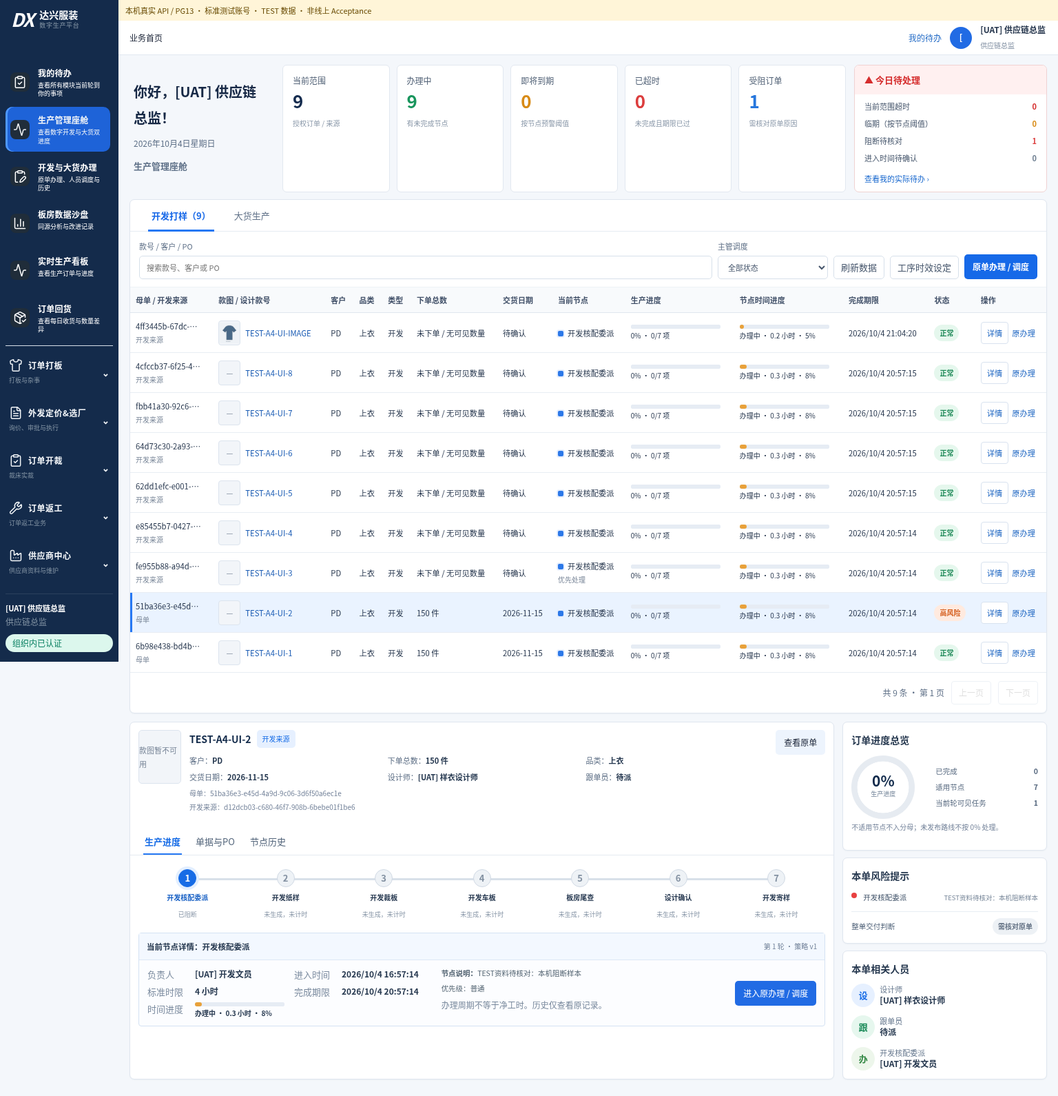
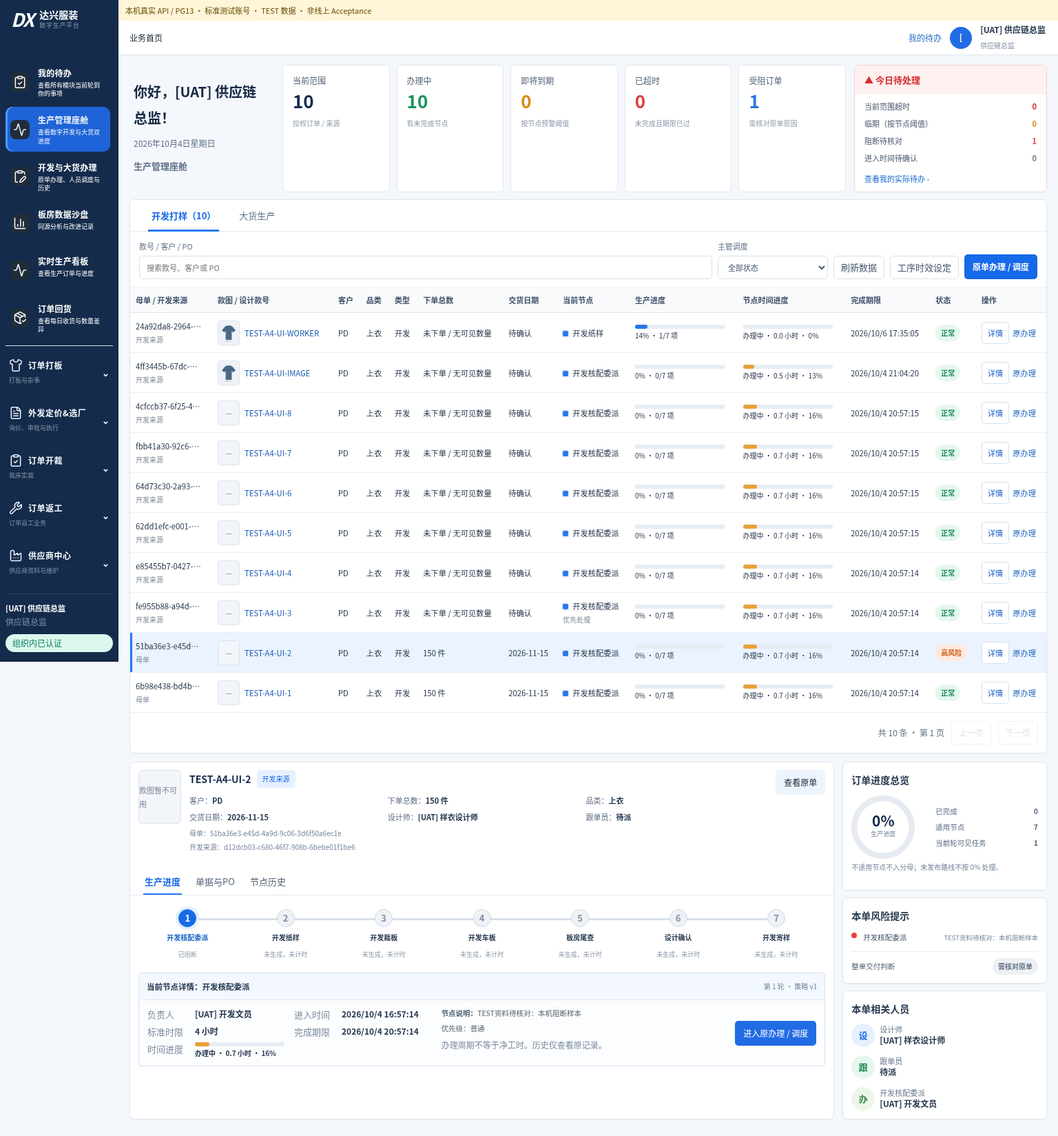
fix: preserve assigned task visibility and effective material rechecks

diff --git a/apps/api/src/production-platform/cockpit-query.ts b/apps/api/src/production-platform/cockpit-query.ts
@@ -22,8 +22,10 @@ export class DigitalCockpitQuery {
     const clerk = `('development_clerk'=ANY($5::text[]) AND ${activeRole("'development_clerk'")})`;
     let bulkTasks='false';
     if(input.stage==='bulk'&&(await db.query("SELECT to_regclass('digital_bulk_preparations') AS relation")).rows[0]?.relation) bulkTasks=`EXISTS(SELECT 1 FROM digital_production_task_access ba JOIN digital_production_tasks bt USING(task_id) JOIN digital_bulk_preparations bp ON bp.preparation_id=bt.route_instance_id AND bp.production_order_id=ba.production_order_id JOIN digital_instruction_documents bi ON bi.production_order_id=bp.production_order_id AND bi.published_version=bp.instruction_version WHERE ba.production_order_id=o.production_order_id AND bt.state<>'cancelled' AND bp.source_round=coalesce((SELECT max(round_number) FROM digital_development_rounds WHERE source_id=bp.source_id),1) AND ba.task_kind IN ('bulk_pattern','warehouse_preshrink','bulk_cutting','bulk_cutting_external','process_logistics','bulk_qc','warehouse_dispatch','factory_material_count','bulk_ship_sample') AND ((ba.assignee_id=$4 AND ${activeRole('ba.required_role')}) OR ${delegated('task_id','ba.task_id',"'technical'")} OR (${delegated('task_id','ba.task_id',"'execute'")} AND ${activeRole('ba.required_role')})))`;
+    // Task assignment/delegation gives resource visibility, not blanket access to its other tasks.
+    const developmentTasks=`EXISTS(SELECT 1 FROM digital_production_task_access da JOIN digital_production_tasks dt USING(task_id) WHERE da.source_id=s.source_id AND da.task_kind LIKE 'development_%' AND ((da.assignee_id=$4 AND ${activeRole('da.required_role')}) OR ${delegated('task_id','da.task_id',"'technical','execute'")}))`;
     const scope=input.stage==='development'
-      ? `($6 OR $7 OR ('sample_designer'=ANY($5::text[]) AND s.created_by=$4) OR ('order_merchandiser'=ANY($5::text[]) AND ${activeRole("'order_merchandiser'")} AND EXISTS(SELECT 1 FROM digital_production_orders mo WHERE mo.source_id=s.source_id AND mo.primary_merchandiser_id=$4)) OR ${delegated('source_id','s.source_id',"'technical'")} OR (${clerk} AND EXISTS(SELECT 1 FROM digital_production_task_access ca WHERE ca.source_id=s.source_id AND ca.task_kind LIKE 'development_%')))`
+      ? `($6 OR $7 OR ('sample_designer'=ANY($5::text[]) AND s.created_by=$4) OR ('order_merchandiser'=ANY($5::text[]) AND ${activeRole("'order_merchandiser'")} AND EXISTS(SELECT 1 FROM digital_production_orders mo WHERE mo.source_id=s.source_id AND mo.primary_merchandiser_id=$4)) OR ${delegated('source_id','s.source_id',"'technical'")} OR ${developmentTasks} OR (${clerk} AND EXISTS(SELECT 1 FROM digital_production_task_access ca WHERE ca.source_id=s.source_id AND ca.task_kind LIKE 'development_%')))`
       : `($6 OR $7 OR ('sample_designer'=ANY($5::text[]) AND o.created_by=$4) OR ('order_merchandiser'=ANY($5::text[]) AND o.primary_merchandiser_id=$4) OR (${clerk} AND o.source_id IS NOT NULL) OR ${bulkTasks} OR ${delegated('production_order_id','o.production_order_id',"'technical'")})`;
     const column = input.stage === "development" ? "source_id" : "production_order_id";
     const visibleColumn=input.stage==='development'?'sourceId':'orderId';
@@ -68,7 +70,7 @@ SELECT o.production_order_id AS "orderId",s.source_id AS "sourceId",
     const labels = hasDocuments ? (await db.query("SELECT DISTINCT ON(node_key) node_key,label FROM digital_production_deadline_policies ORDER BY node_key,version DESC")).rows : [];
     for (const row of result.items) {
       const resourceId = input.stage === "development" ? row.sourceId : row.orderId;
-      const taskIds = (await db.query(`SELECT t.task_id FROM digital_production_tasks t JOIN digital_production_task_access a USING(task_id)
+      const taskIds = (await db.query(`SELECT t.task_id,EXISTS(SELECT 1 FROM digital_production_task_events e WHERE e.task_id=t.task_id AND e.event_kind='material_returned') AS returned FROM digital_production_tasks t JOIN digital_production_task_access a USING(task_id)
         WHERE a.${column}=$1 ORDER BY t.route_version DESC,t.created_at,t.task_id`,[resourceId])).rows;
       const tasks: Awaited<ReturnType<DigitalProductionTaskService["read"]>>[] = [];
       for (const task of taskIds) if (await policy.allowed(actor,"task",task.task_id,"technical")) tasks.push(await service.read(actor,task.task_id));
@@ -97,15 +99,17 @@ SELECT o.production_order_id AS "orderId",s.source_id AS "sourceId",
       }
       const lines = row.orderId && await policy.allowed(actor,"order",row.orderId,"technical") ? (await db.query(`SELECT l.line_id AS id,l.po_number AS po,l.color,coalesce(sum(s.quantity),0)::int AS quantity
         FROM digital_production_po_lines l LEFT JOIN digital_production_po_sizes s USING(line_id) WHERE l.production_order_id=$1 GROUP BY l.line_id ORDER BY l.position`,[row.orderId])).rows : [];
-      let flow:CockpitRow["flow"]=tasks.filter(task=>task.routeVersion===(latest?.routeVersion??1)).map(task=>({key:task.taskKind,label:task.label,state:task.state,taskId:task.taskId}));
+      const effectiveTasks=tasks.filter(task=>!taskIds.find(item=>item.task_id===task.taskId)?.returned);
+      let flow:CockpitRow["flow"]=effectiveTasks.filter(task=>task.routeVersion===(latest?.routeVersion??1)).map(task=>({key:task.taskKind,label:task.label,state:task.state,taskId:task.taskId}));
       let styleImageId:string|null=null;
-      if(hasDocuments&&row.sourceId&&await policy.allowed(actor,"source",row.sourceId,"technical")) {
+      const fullSourceAccess=Boolean(row.sourceId&&await policy.allowed(actor,"source",row.sourceId,"technical"));
+      if(hasDocuments&&row.sourceId&&(fullSourceAccess||tasks.some(task=>task.sourceId===row.sourceId))) {
         const sheet=sheets.find(item=>item.source_id===row.sourceId);
         const document=sheet?.document;
         if(input.stage==='development'&&sheet?.status==='published') {
           const declared:string[]=(latest?.routeVersion??1)===1?['development_materials',...developmentRoute(document)]:rounds.find(round=>round.source_id===row.sourceId&&round.round_number===latest!.routeVersion)?.route_nodes??[];
           const nodes=declared.filter(node=>!['development_material_supply','development_craft_dispatch','development_sewing_transfer','development_washing_dispatch'].includes(node));
-          flow=nodes.map(key=>{const match=tasks.find(task=>task.routeVersion===(latest?.routeVersion??1)&&(task.taskKind===key||(key==='development_materials'&&task.taskKind==='development_material_recheck')));return {key,label:labels.find(item=>item.node_key===key)?.label??key,state:match?.state??'uncreated',taskId:match?.taskId??null};});
+          flow=nodes.map(key=>{const match=effectiveTasks.filter(task=>task.routeVersion===(latest?.routeVersion??1)&&(task.taskKind===key||(key==='development_materials'&&task.taskKind==='development_material_recheck'))).sort((a,b)=>b.occurrence-a.occurrence)[0];return {key,label:labels.find(item=>item.node_key===key)?.label??key,state:match?.state??(fullSourceAccess?'uncreated':'unavailable'),taskId:match?.taskId??null};});
         }
         if(document?.template)row.category=document.template;
         const image=document?.files?.find((file:{kind:string})=>file.kind==='款图');

diff --git a/apps/web/src/production-command-center-view.tsx b/apps/web/src/production-command-center-view.tsx
@@ -344,7 +344,7 @@ export function ProductionCommandCenterLiveView(props:LiveProps){
    <article className="production-command-card production-command-detail">
     <div className="production-command-detail-heading"><LiveStyleImage key={selected.styleImageId??selected.id} row={selected}/><div className="production-command-detail-title"><div className="production-command-title-row"><h2>{selected.styleNo}</h2><span className="production-command-type-tag">{stage==='development'?'开发来源':'大货订单'}</span></div><div className="production-command-detail-facts-grid"><span>客户：<strong>{selected.customer}</strong></span><span>下单总数：<strong>{selected.lines.length?`${selected.lines.reduce((n,line)=>n+line.quantity,0)} 件`:'无可见数量'}</strong></span><span>品类：<strong>{selected.category}</strong></span><span>交货日期：<strong>{selected.deliveryDate??'待确认'}</strong></span><span>设计师：<strong>{selected.designer}</strong></span><span>跟单员：<strong>{selected.merchandiser??'待派'}</strong></span></div><p className="digital-identity-facts">母单：{selected.orderId??'尚未下单'}<br/>开发来源：{selected.sourceId??'尚未提交'}</p></div><div className="production-command-detail-actions"><a href={originalOrder(selected)}>查看原单</a></div></div>
     <nav className="production-command-detail-tabs" aria-label="订单详情导航">{['生产进度','单据与PO','节点历史'].map(label=><button key={label} className={tab===label?'is-active':undefined} aria-pressed={tab===label} onClick={()=>setTab(label)}>{label}</button>)}</nav>
-    {tab==='生产进度'&&<><div className="production-command-timeline" aria-label="当前轮次生产流程">{(selected.flow?.length?selected.flow:nodes.map(node=>({key:node.taskId,label:node.label,state:node.state,taskId:node.taskId}))).map((node,index)=><button key={node.key} disabled={!node.taskId} onClick={()=>node.taskId&&setTaskId(node.taskId)} className={`production-command-timeline-item is-${node.state==='completed'?'done':['ready','blocked'].includes(node.state)?'current':'future'}${task?.taskId===node.taskId?' is-selected':''}`} aria-pressed={task?.taskId===node.taskId}><span className="production-command-step">{node.state==='completed'?'✓':index+1}</span><strong>{node.label}</strong><small>{{uncreated:'未生成，未计时',pending:'前置待齐',ready:'可办理',blocked:'已阻断',completed:'已完成',cancelled:'已取消'}[node.state]}</small></button>)}{!nodes.length&&!selected.flow?.length&&<p>路线尚未发布，暂无可展示节点。</p>}</div>{task&&<div className="production-command-current-node"><div className="production-command-current-node-title"><strong>当前节点详情：{task.label}</strong><span>第 {task.routeVersion} 轮 · 策略 v{task.policyVersion}</span></div><div className="production-command-current-node-body"><dl><div><dt>负责人</dt><dd>{task.assigneeName??'待派'}</dd></div><div><dt>进入时间</dt><dd>{liveDate(task.enteredAt)}</dd></div><div><dt>标准时限</dt><dd>{task.slaHours===null?'无 SLA':`${task.slaHours} 小时`}</dd></div><div><dt>完成期限</dt><dd>{task.slaHours===null?'无 SLA':liveDate(task.dueAt)}</dd></div><div><dt>时间进度</dt><dd><LiveTimeProgress task={task} now={now}/></dd></div></dl><div className="production-command-current-node-copy"><p><strong>节点说明：</strong>{task.blockedReason??(task.state==='pending'?'前置条件未齐，不提前计时。':task.state==='completed'?'已完成，期限与历史记录冻结。':'在原办理页核对前置、资料和业务事实。')}</p><p>优先级：{task.priority==='urgent'?'优先处理':'普通'}</p><small>办理周期不等于净工时。历史仅查看原记录。</small></div><div className="production-command-current-node-actions"><a className="is-primary" href={originalTask(task)}>{['completed','cancelled'].includes(task.state)?'查看历史记录':'进入原办理 / 调度'}</a></div></div></div>}</>}
+    {tab==='生产进度'&&<><div className="production-command-timeline" aria-label="当前轮次生产流程">{(selected.flow?.length?selected.flow:nodes.map(node=>({key:node.taskId,label:node.label,state:node.state,taskId:node.taskId}))).map((node,index)=><button key={node.key} disabled={!node.taskId} onClick={()=>node.taskId&&setTaskId(node.taskId)} className={`production-command-timeline-item is-${node.state==='completed'?'done':['ready','blocked'].includes(node.state)?'current':'future'}${task?.taskId===node.taskId?' is-selected':''}`} aria-pressed={task?.taskId===node.taskId}><span className="production-command-step">{node.state==='completed'?'✓':index+1}</span><strong>{node.label}</strong><small>{{uncreated:'未生成，未计时',unavailable:'未生成或无查看权限',pending:'前置待齐',ready:'可办理',blocked:'已阻断',completed:'已完成',cancelled:'已取消'}[node.state]}</small></button>)}{!nodes.length&&!selected.flow?.length&&<p>路线尚未发布，暂无可展示节点。</p>}</div>{task&&<div className="production-command-current-node"><div className="production-command-current-node-title"><strong>当前节点详情：{task.label}</strong><span>第 {task.routeVersion} 轮 · 策略 v{task.policyVersion}</span></div><div className="production-command-current-node-body"><dl><div><dt>负责人</dt><dd>{task.assigneeName??'待派'}</dd></div><div><dt>进入时间</dt><dd>{liveDate(task.enteredAt)}</dd></div><div><dt>标准时限</dt><dd>{task.slaHours===null?'无 SLA':`${task.slaHours} 小时`}</dd></div><div><dt>完成期限</dt><dd>{task.slaHours===null?'无 SLA':liveDate(task.dueAt)}</dd></div><div><dt>时间进度</dt><dd><LiveTimeProgress task={task} now={now}/></dd></div></dl><div className="production-command-current-node-copy"><p><strong>节点说明：</strong>{task.blockedReason??(task.state==='pending'?'前置条件未齐，不提前计时。':task.state==='completed'?'已完成，期限与历史记录冻结。':'在原办理页核对前置、资料和业务事实。')}</p><p>优先级：{task.priority==='urgent'?'优先处理':'普通'}</p><small>办理周期不等于净工时。历史仅查看原记录。</small></div><div className="production-command-current-node-actions"><a className="is-primary" href={originalTask(task)}>{['completed','cancelled'].includes(task.state)?'查看历史记录':'进入原办理 / 调度'}</a></div></div></div>}</>}
     {tab==='单据与PO'&&<div className="digital-detail-section"><h3>原始 PO 与款色</h3>{selected.lines.length?selected.lines.map(line=><p key={line.id}>{line.po??'PO 待补'} · {line.color} · {line.quantity} 件</p>):<p>尚无下单 PO 或当前账号无可见 PO。</p>}<a href={originalOrder(selected)}>原单资料、附件与版本</a></div>}
     {tab==='节点历史'&&<div className="digital-detail-section">{selected.tasks.length?selected.tasks.map(node=><p key={node.taskId}><a href={originalTask(node)}>{node.label} · 第 {node.routeVersion} 轮</a> · {node.assigneeName??'待派'} · {taskTimeProgress(node,now).label}</p>):<p>暂无节点历史</p>}<small>历史只读，具体权限仍由原业务页核验。</small></div>}
    </article>

diff --git a/tests/integration/digital-production-tasks-postgres.test.ts b/tests/integration/digital-production-tasks-postgres.test.ts
@@ -100,6 +100,26 @@ run("P03 task lifecycle PostgreSQL", () => {
     await access.revoke(boss,grant.delegationId);
     expect((await cockpit.list(actor(other),query)).total).toBe(0);
   });
+  it("P15 shows only assigned or delegated development sources and keeps other tasks private",async()=>{
+    const search='TEST-P15-ASSIGNED',workerId=randomUUID(),hiddenWorkerId=randomUUID();
+    for(const id of [workerId,hiddenWorkerId])await database.query("INSERT INTO app_users(id,display_name,enabled) VALUES($1,'TEST assigned worker',true)",[id]);
+    const first=await service.createSource(actor(),DigitalSourceCreateSchema.parse({developmentType:'头版',designStyleNo:search+'-A',customerCode:'PD'}),randomUUID());
+    const second=await service.createSource(actor(),DigitalSourceCreateSchema.parse({developmentType:'头版',designStyleNo:search+'-B',customerCode:'PD'}),randomUUID());
+    await database.query("INSERT INTO user_role_assignments(user_id,role_code) VALUES($1,'pattern_room_worker'),($2,'pattern_room_worker')",[workerId,hiddenWorkerId]);
+    const assigned=await create({kind:'source',id:first.sourceId},'development_pattern',{assigneeId:workerId});
+    const hidden=await create({kind:'source',id:first.sourceId},'development_cutting',{assigneeId:hiddenWorkerId});
+    const unrelated=await create({kind:'source',id:second.sourceId},'development_pattern',{assigneeId:hiddenWorkerId});
+    const worker=actor(workerId,['pattern_room_worker']),cockpit=new DigitalCockpitQuery(database),input={page:1,search,stage:'development' as const};
+    const visible=await cockpit.list(worker,input);expect(visible.total).toBe(1);expect(visible.items[0]!.sourceId).toBe(first.sourceId);
+    expect(visible.items[0]!.tasks.map(task=>task.taskId)).toEqual([assigned.taskId]);expect(visible.items[0]!.tasks.some(task=>task.taskId===hidden.taskId)).toBe(false);
+    expect(visible.summary.active).toBe(1);
+    await database.query("UPDATE user_role_assignments SET revoked_at=CURRENT_TIMESTAMP WHERE user_id=$1 AND role_code='pattern_room_worker'",[workerId]);
+    expect((await cockpit.list(worker,input)).total).toBe(0);
+    await database.query("INSERT INTO user_role_assignments(user_id,role_code) VALUES($1,'sample_designer')",[workerId]);
+    const access=new DigitalProductionAccessService(database),grant=await access.delegate(boss,{resourceKind:'task',resourceId:unrelated.taskId,delegateId:workerId,purpose:'technical',expiresAt:new Date(Date.now()+3600000).toISOString()});
+    expect((await cockpit.list(worker,input)).items.map(row=>row.sourceId)).toEqual([second.sourceId]);
+    await access.revoke(boss,grant.delegationId);expect((await cockpit.list(worker,input)).total).toBe(0);
+  });
   it("keeps no-SLA tasks usable without creating a legacy clock and denies cross-order access", async()=>{
     const resource=await order();const {taskId}=await create(resource);
     expect(await tasks.read(actor(),taskId)).toMatchObject({state:"ready",dueAt:null,slaHours:null,canExecute:true});

diff --git a/tests/integration/digital-development-execution-postgres.test.ts b/tests/integration/digital-development-execution-postgres.test.ts
@@ -1,3 +1,4 @@
+import { DigitalCockpitQuery } from "../../apps/api/src/production-platform/cockpit-query.js";
 import { randomUUID } from "node:crypto";
 import { readFile } from "node:fs/promises";
 import pg from "pg";
@@ -94,11 +95,19 @@ run("P06 development execution PostgreSQL", () => {
     await execution.check(clerk(),id,{taskId,result:"缺项退回",note:"主布实物未到",items:checks(materialId,false)},randomUUID());
     const supply=(await execution.read(actor(),id)).tasks.find(t=>t.taskKind==="development_material_supply")!;
     expect(supply.routeProgress.completed).toBe(0);
+    const cockpit=new DigitalCockpitQuery(database),input={page:1,search:'',stage:'development' as const};
+    const returned=(await cockpit.list(boss(),input)).items.find(row=>row.sourceId===id)!;
+    expect(returned.flow?.find(node=>node.key==='development_materials')).toMatchObject({state:'uncreated',taskId:null});
+
     await expect(execution.resubmit(actor(),id,supply.taskId,randomUUID())).rejects.toMatchObject({statusCode:409});
     await development.materialEvent(actor(),id,materialId,{expectedMaterialRevision:0,expectedVersion:version,action:"到货",expectedDate:null,note:"主料实物已到"},randomUUID());
     await execution.resubmit(actor(),id,supply.taskId,randomUUID());
     const recheck=(await execution.read(clerk(),id)).tasks.find(t=>t.taskKind==="development_material_recheck")!;
     expect(recheck).toMatchObject({state:"ready",slaHours:null,dueAt:null});
+    const row=(await cockpit.list(boss(),input)).items.find(item=>item.sourceId===id)!;
+    expect(row.flow?.find(node=>node.key==='development_materials')).toMatchObject({state:'ready',taskId:recheck.taskId});
+    expect(row.tasks.find(task=>task.taskId===taskId)?.state).toBe('completed');
+
     expect((await tasks.read(clerk(),taskId)).slaHours).toBe(4);
     await execution.check(clerk(),id,{taskId:recheck.taskId,result:"通过",note:"缺项已补",items:checks(materialId)},randomUUID());
   });

diff --git a/packages/contracts/src/digital-production-cockpit.ts b/packages/contracts/src/digital-production-cockpit.ts
@@ -3,7 +3,7 @@ export type CockpitStage = "development" | "bulk";
 export type CockpitRow = {
   id: string; orderId: string | null; sourceId: string | null; styleNo: string;
   customer: string; category: string; designer: string; merchandiser: string | null;
-  flow?: {key:string;label:string;state:DigitalTask["state"]|"uncreated";taskId:string|null}[];
+  flow?: {key:string;label:string;state:DigitalTask["state"]|"uncreated"|"unavailable";taskId:string|null}[];
   styleImageId?: string | null;
   deliveryDate: string | null; createdAt: string;
   tasks: DigitalTask[];

diff --git a/docs/roadmap/digital-production-v1/a4-ui-repair-20261004.md b/docs/roadmap/digital-production-v1/a4-ui-repair-20261004.md
@@ -21,7 +21,7 @@
 
 隔离本机 PostgreSQL **13.23**，专用库 `dx_a4_ui_acceptance`，237 条迁移；标准 `seed-role-users` 账号，通过 Acceptance provider 签发本机测试码并走正常 `/api/auth/mobile`、Cookie 和后端 API。无 `page.route` 拦截身份或业务响应，无线上写入。本机 `/opt` 只读，测试启动仅以临时入口将 Acceptance storage 目录替换为 `/tmp/dx-a4-ui-attachments`；临时入口未提交，上传、授权和业务实现均为原代码。
 
-`TEST-A4-UI-1…8` 由原身份/开发/任务服务建立，包含两张双 PO 母单、阻断和优先任务。这八个样本附件只有测试元数据、无对象，页面明确回退“款图暂不可用”。另一个 `TEST-A4-UI-IMAGE` 通过真实上传 intent → multipart → finalize → 保存/发布建立；GET 图片 3121 bytes 与上传 SHA256 逐字节一致，授权账号可读，普通工人拒绝。
+`TEST-A4-UI-1…8` 由原身份/开发/任务服务建立，包含两张双 PO 母单、阻断和优先任务。这八个样本附件只有测试元数据、无对象，页面明确回退“款图暂不可用”。另一个 `TEST-A4-UI-IMAGE` 通过真实上传 intent → multipart → finalize → 保存/发布建立；GET 图片 3121 bytes 与上传 SHA256 逐字节一致，授权账号可读，普通工人拒绝。Review 后新增 `TEST-A4-UI-WORKER`，以正常 API 创建真实款图与完整主布、发布、预派并核配通过，激活已派工人的纸样任务；未派来源仍拒绝。TEST-A4-UI-8 的空主布核配尝试被原规则拒绝，未绕过。
 
 脚本：`scripts/acceptance/digital-workspace-real-browser.mjs`。仅允许 loopback 与上述专用库；需 `A4_UI_ENV_FILE` 指向不提交的本机秘密配置。前置数据为上述 TEST 样本和标准账号。命令：
 
@@ -29,11 +29,12 @@
 A4_UI_ENV_FILE=/path/to/local-test-env.json CHROMIUM_PATH=/usr/bin/chromium npx tsx scripts/acceptance/digital-workspace-real-browser.mjs
 ```
 
-8 场景：Root、供应链总监、技术主管、普通工人 × 1536×960 / 390×844。允许场景均从 `/ui/home` 点击进入，覆盖选单、双 PO、只读历史、SLA 按角色显隐、分析页、原办理页、返回座舱及实际待办；拒绝场景无导航入口，直接页面/API/款图均拒绝。另断言手机两列卡片、7 节点纵排、日期宽度、无页面级横向溢出和无页面 JS 错误。
+10 场景：Root、供应链总监、技术主管、已派板房工人、普通工人 × 1536×960 / 390×844。允许场景均从 `/ui/home` 点击进入，覆盖选单、双 PO、只读历史、SLA 按角色显隐、分析页、原办理页、返回座舱及实际待办；拒绝场景无导航入口，直接页面/API/款图均拒绝。另断言手机两列卡片、7 节点纵排、日期宽度、无页面级横向溢出和无页面 JS 错误。
 
-- [完整 8 场景结果](evidence/a4-ui-repair/result.json)
+- [完整 10 场景结果](evidence/a4-ui-repair/result.json)
 - [Root PC](evidence/a4-ui-repair/root-1536-cockpit.png) / [Root 手机](evidence/a4-ui-repair/root-390-cockpit.png)
 - [供应链总监 PC](evidence/a4-ui-repair/production-management-1536-cockpit.png) / [手机](evidence/a4-ui-repair/production-management-390-cockpit.png)
+- [已派板房工人 PC](evidence/a4-ui-repair/pattern-room-worker-1536-cockpit.png) / [手机](evidence/a4-ui-repair/pattern-room-worker-390-cockpit.png)
 - [技术主管 PC](evidence/a4-ui-repair/pattern-room-supervisor-1536-cockpit.png) / [普通工人拒绝](evidence/a4-ui-repair/worker-a-390-denied.png)
 - [同 Shell 分析页](evidence/a4-ui-repair/root-1536-analysis.png)
 - [仓库演示模板 PC](evidence/a4-ui-repair/reference-template-desktop.png) / [手机](evidence/a4-ui-repair/reference-template-mobile.png)
@@ -42,12 +43,21 @@ A4_UI_ENV_FILE=/path/to/local-test-env.json CHROMIUM_PATH=/usr/bin/chromium npx 
 
 ## 验证与兼容边界
 
-- 类型检查、lint、build 已通过；导航/时间/手动刷新定向单测通过。PG13 任务 16、开发资料 6、开发执行 6、外发完整链路 57 项通过。外发首次与全量无 DB 测试并跑发生既有印花用例 5 秒超时，停止资源竞争后整文件 57 项通过，未放宽超时。
+- 类型检查、lint、build 已通过；导航/时间/手动刷新定向单测通过。PG13 任务 17、开发资料 6、开发执行 6、外发完整链路 57 项通过。外发首次与全量无 DB 测试并跑发生既有印花用例 5 秒超时，停止资源竞争后整文件 57 项通过，未放宽超时。
 - 全量无 DB 测试首次 1932 项通过、2 项旧导航列表文本断言失败；新增数字入口预期已同步，相关 16 项定向复跑通过，最终全量证据以当前 Head Full Gate 为准。
 - 新开发集成断言验证授权款图、7 个适用节点、未生成状态及跨设计师拒绝；原拒绝发布测试计数改为当前来源范围，避免其他测试的成功发布影响断言。
 - 通知既有合成布局回归覆盖 7 视口、长通知、滚动与尺寸变化、底部按钮可点及默认贴角恢复；这项仅为组件回归，非真实通知业务验收。
 - 最终 Head 的 Full Gate / Codex Review 证据附于 PR 评论，不用旧 Head 结果替代。
 - 无 migration、manifest 或更新工具改动。预检 main `9fcc05c49dd7f236e2aad183b7e638780e9d63fc` 的 221 个 SQL 均完整且字节一致包含在 release 的 237 个 SQL 中；候选工具相 `183309300f2c62bbfb92212b778083c77adf9ece` 未改变。独立 main 安全线程后续变动另行协调，不混入本 PR。
+
+## 一次 Codex Review 的修复闭环
+
+首次准确 Head `5c0e3b17` Full Gate 通过后，仅请求一次 GitHub Codex Review，返回两项 P2：
+
+1. 已派开发工人被导航允许，但来源查询缺少任务主办范围。SQL 现按原任务 policy 纳入有效主办/技术或执行代理；每个任务仍单独核权，未派来源与撤权仍拒绝。任务级读者看不到的流程状态显示“未生成或无查看权限”，不会伪造已完成或未生成事实。PG13 覆盖主办、同源他人任务隐藏、未派拒绝、角色撤销、代理与撤销；真实浏览器补已派工人 PC/手机两场景。
+2. 流程核配节点可能选中已退回旧记录。流程投影排除 `material_returned`，选择同节点最新有效 occurrence；原历史任务保留。PG13 原真实退回/补料/返核配链路断言流程指向返核配任务，旧任务仍为历史完成记录。
+
+修复后新 Head 必须重新 Full Gate；不重复请求 Review，不将“修复并验证”写成二次审查通过。
 
 ## 待部署验收
 
